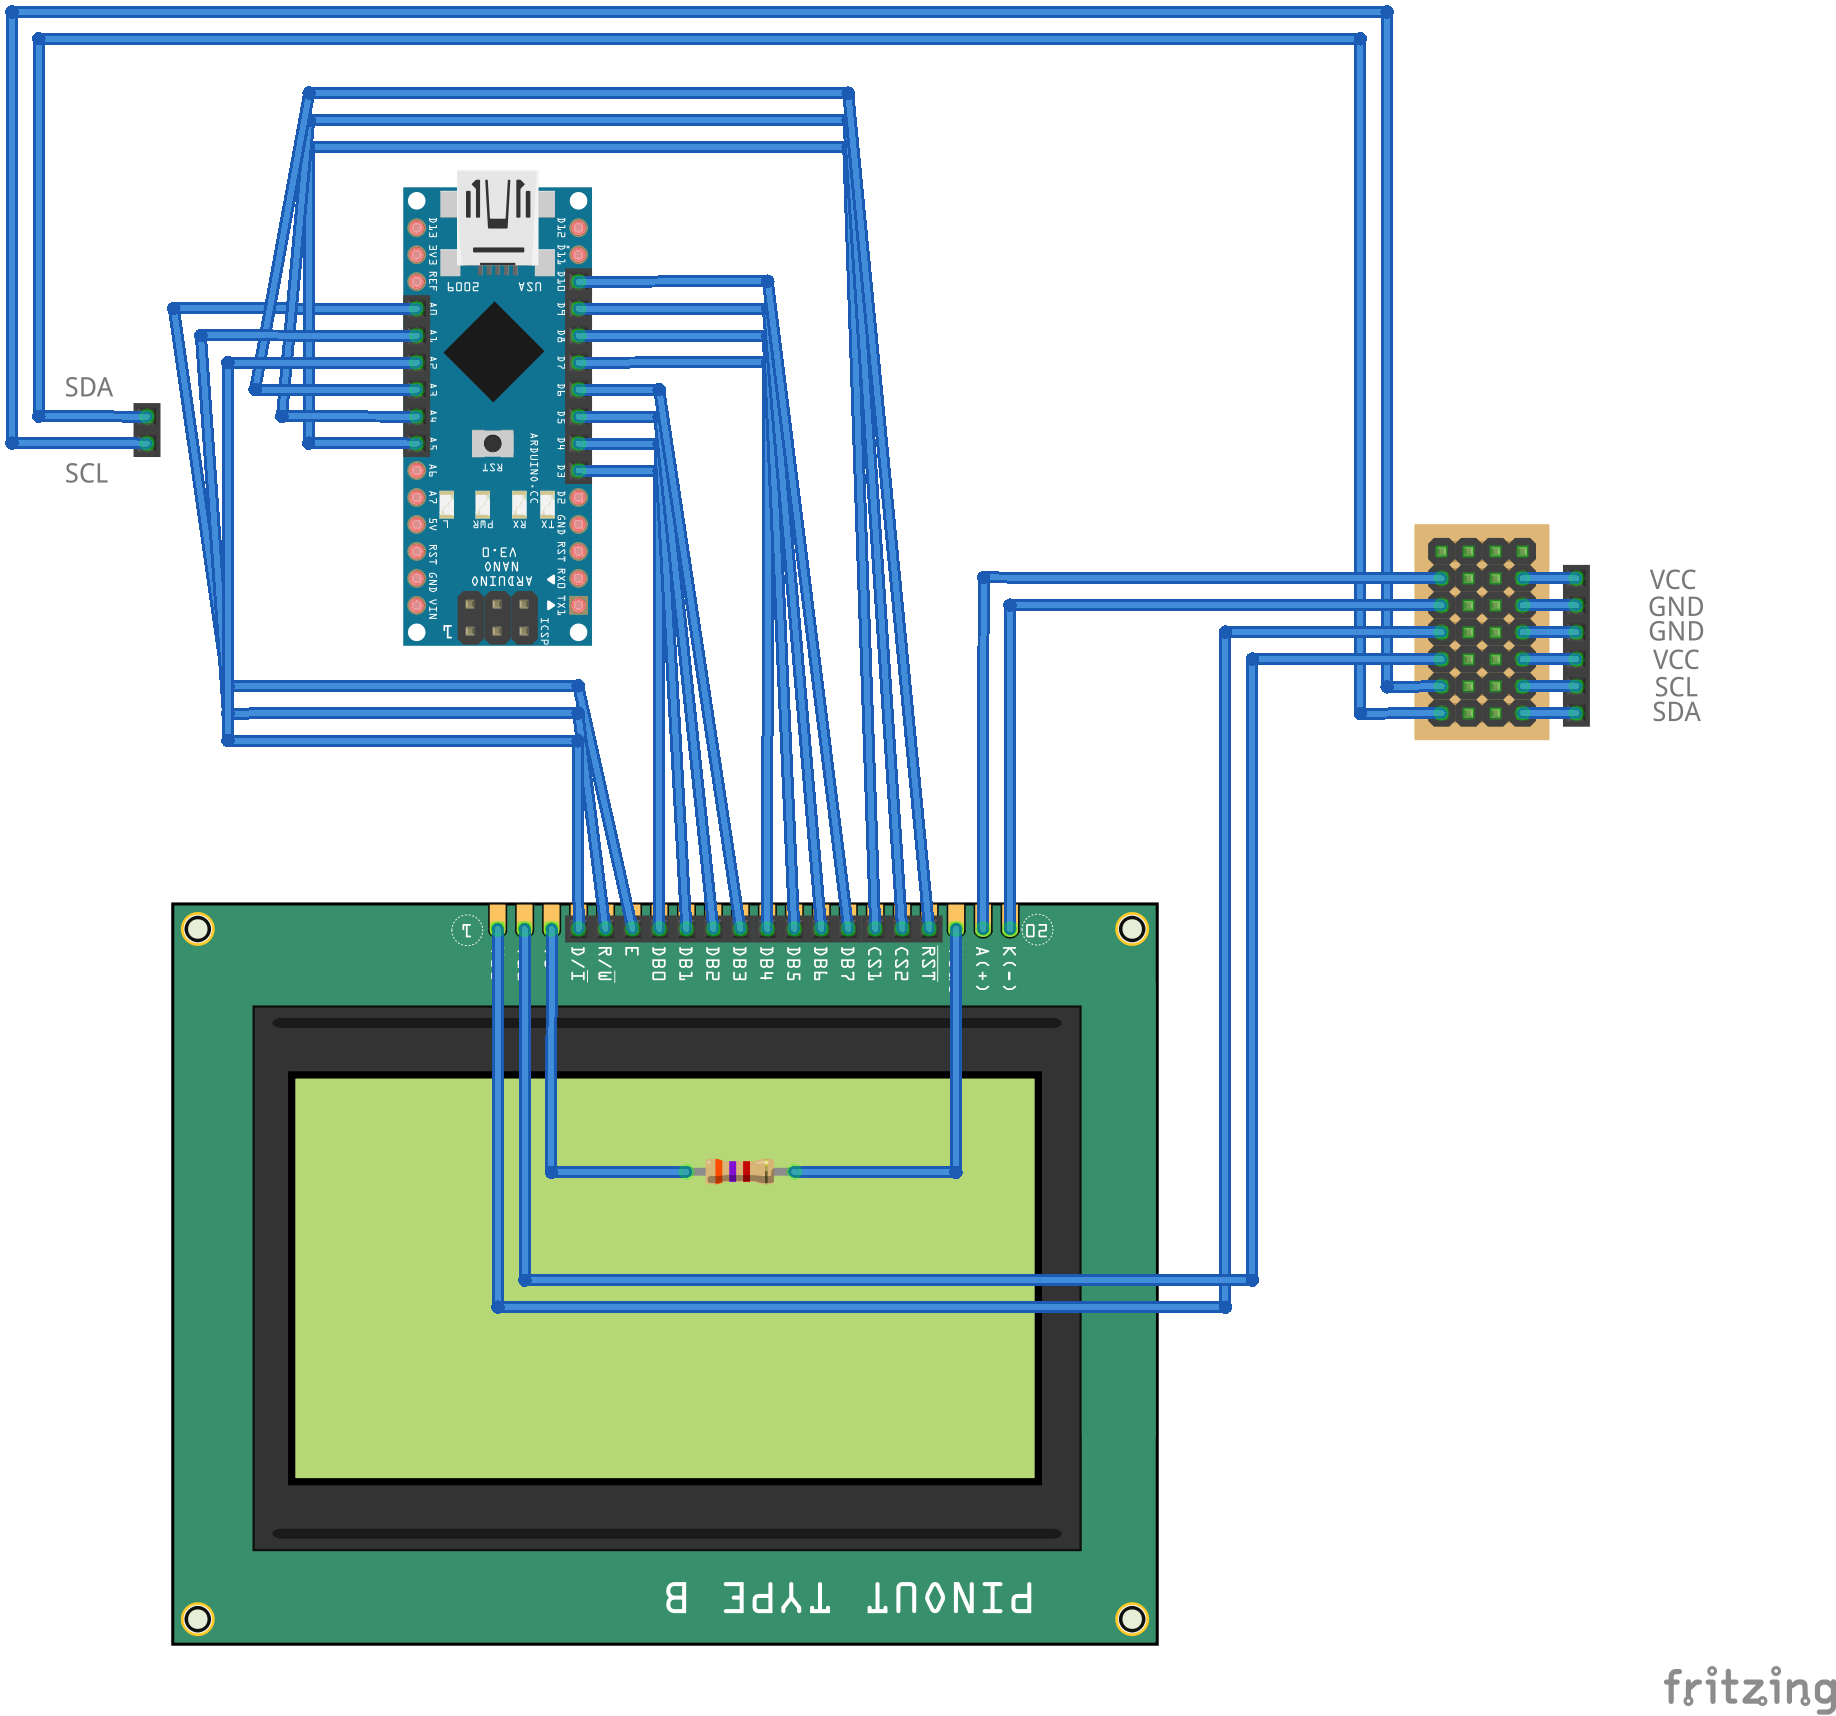
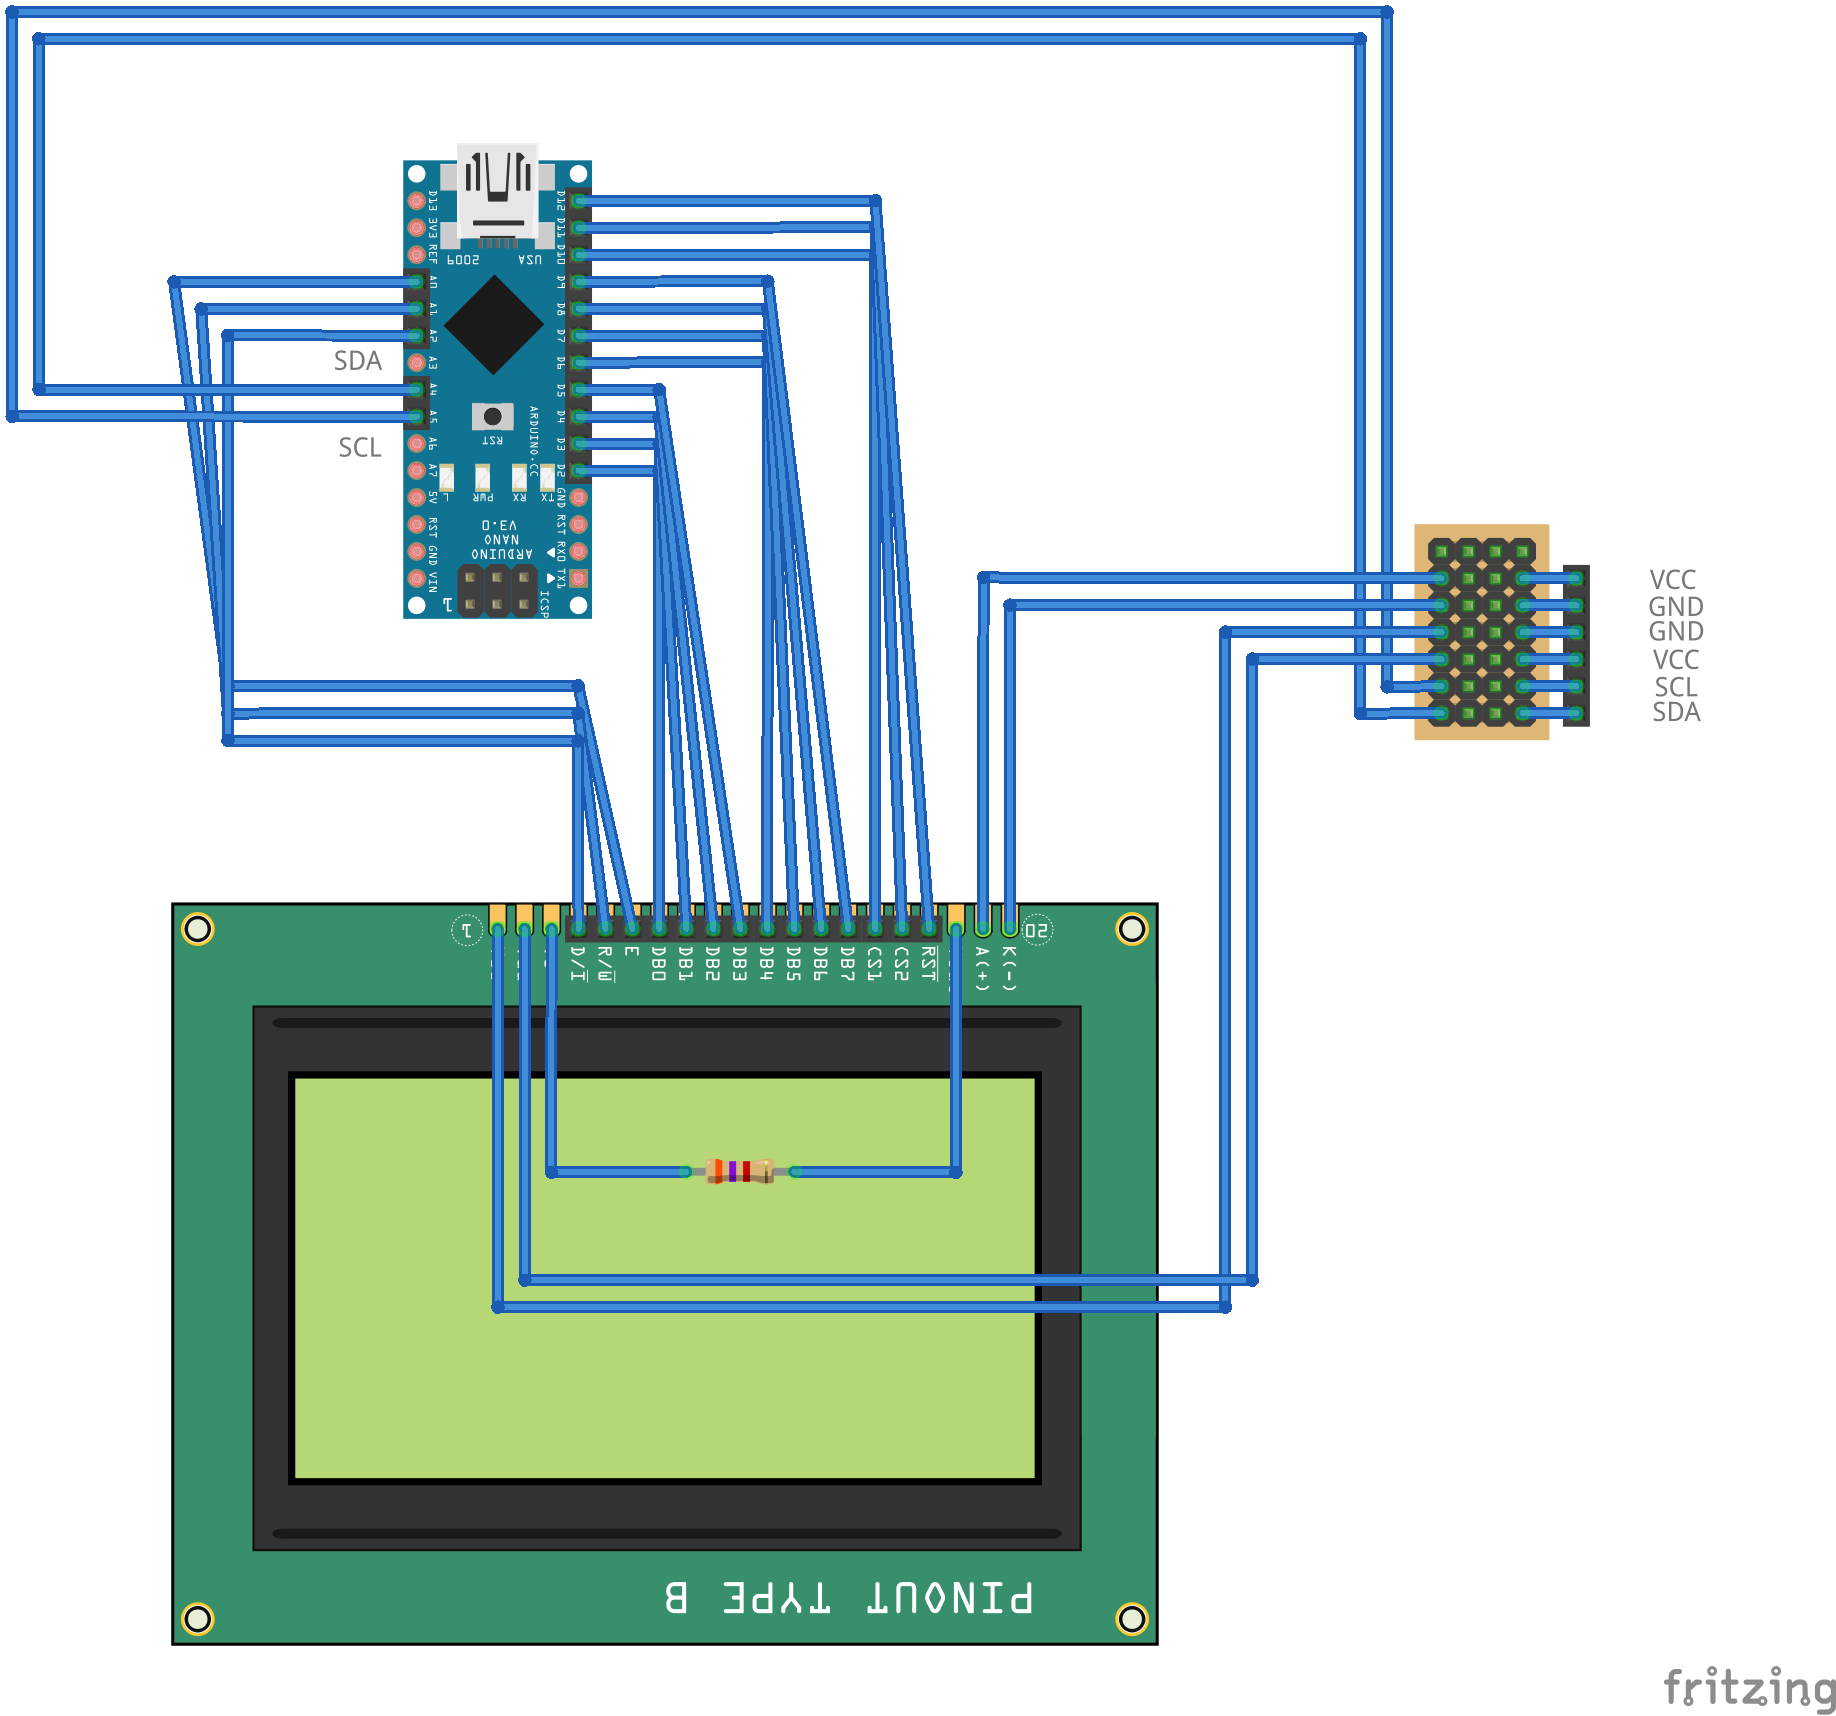
pinout update

Changed region(s): [[0.0, 0.0309, 0.5278, 0.5251]]

diff --git a/software/src/main.cpp b/software/src/main.cpp
@@ -1,6 +1,7 @@
 #include <Arduino.h>
 #include <U8g2lib.h>
 #include "zakhar_faces.h"
+#include "pinout.h"
 
 #ifdef U8X8_HAVE_HW_SPI
 #include <SPI.h>
@@ -15,7 +16,11 @@ U8G2_SH1106_128X64_NONAME_1_HW_I2C u8g2(U8G2_R0, /* reset=*/ U8X8_PIN_NONE);
 #endif
 
 #if KS0108_128X64
-U8G2_KS0108_128X64_F u8g2(U8G2_R2, 3, 4, 5, 6, 7, 8, 9, 10, /*enable=*/A0, /*dc=*/A2, /*cs0=*/A5, /*cs1=*/A4, /*cs2=*/U8X8_PIN_NONE, /* reset=*/A3); // Set R/W to low!
+U8G2_KS0108_128X64_F u8g2(U8G2_R2,  LCD_D0, LCD_D1, LCD_D2, LCD_D3,
+                                    LCD_D4, LCD_D5, LCD_D6, LCD_D7,
+                                    /*enable=*/LCD_E, /*dc=*/LCD_DC,
+                                    /*cs0=*/LCD_CS0, /*cs1=*/LCD_CS1,
+                                    /*cs2=*/U8X8_PIN_NONE, /* reset=*/LCD_RESET); // Set R/W to low!
 #endif
 // End of constructor list
 
@@ -23,8 +28,8 @@ void setup(void) {
 
 #if KS0108_128X64
     /* U8g2 Project: KS0108 Test Board */
-    pinMode(A1, OUTPUT);
-    digitalWrite(A1, 0);
+    pinMode(LCD_RW, OUTPUT);
+    digitalWrite(LCD_RW, 0);
 #endif
     u8g2.begin();
 }

diff --git a/software/include/pinout.h b/software/include/pinout.h
@@ -1,0 +1,21 @@
+#include <Arduino.h>
+
+/* LCD */
+#define LCD_D0      2
+#define LCD_D1      3
+#define LCD_D2      4
+#define LCD_D3      5
+#define LCD_D4      6
+#define LCD_D5      7
+#define LCD_D6      8
+#define LCD_D7      9
+#define LCD_E       A0
+#define LCD_RW      A1
+#define LCD_DC      A2
+#define LCD_RESET   12
+#define LCD_CS0     10
+#define LCD_CS1     11
+
+/* I2C */
+#define I2C_SDA     A4
+#define I2C_SCL     A5
